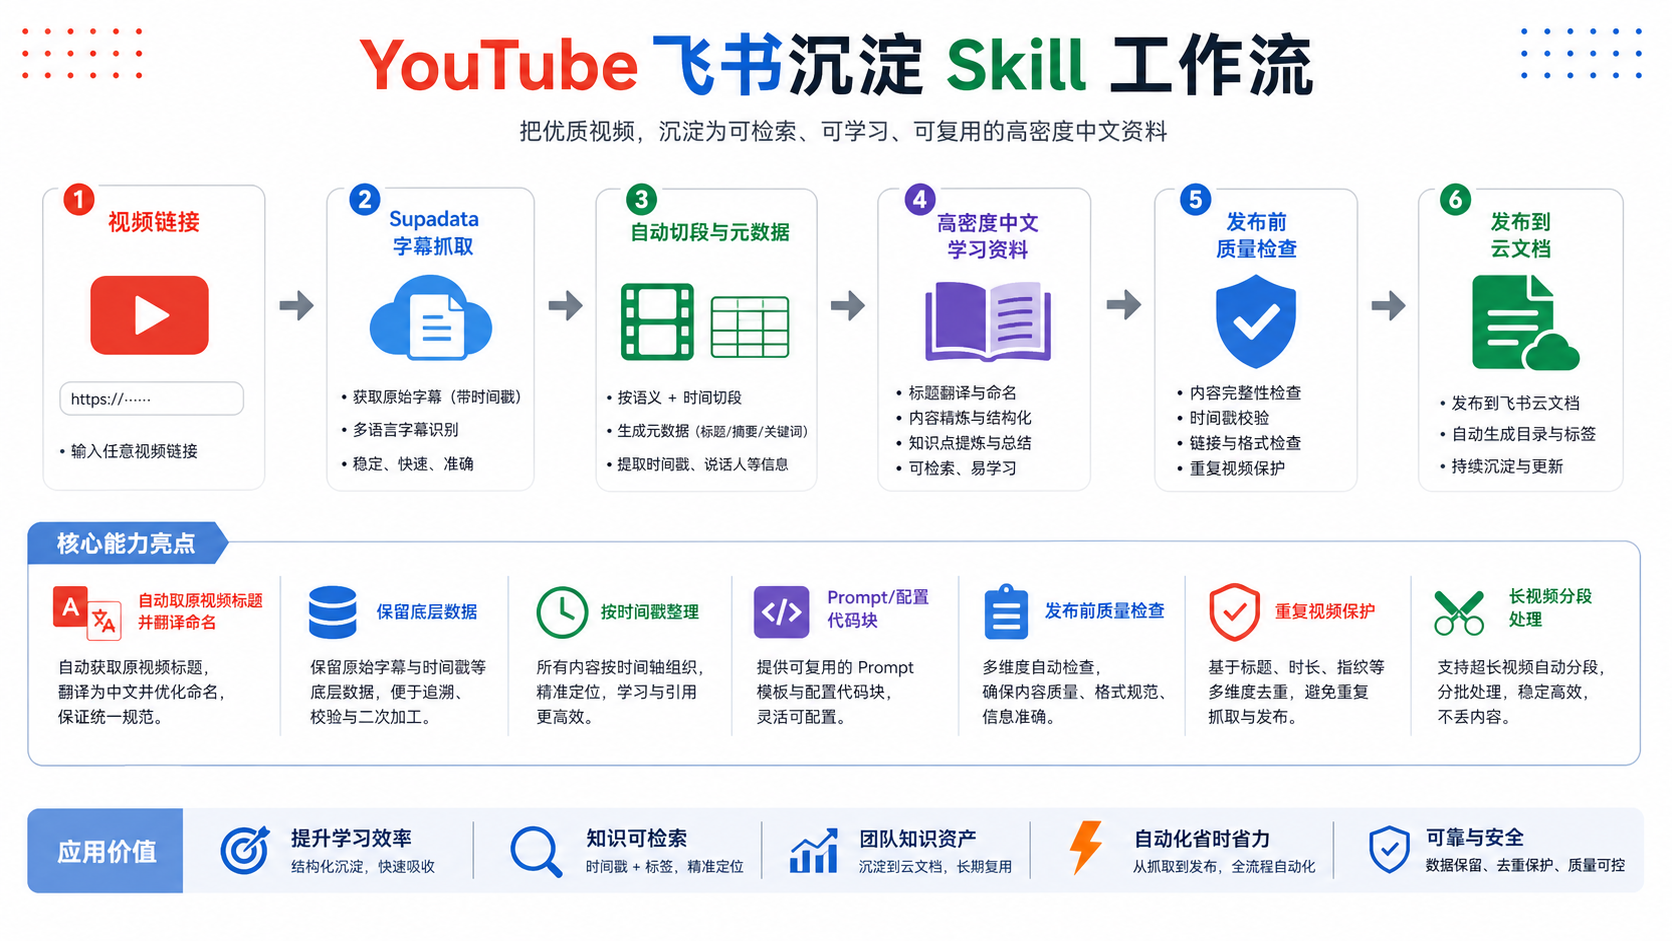
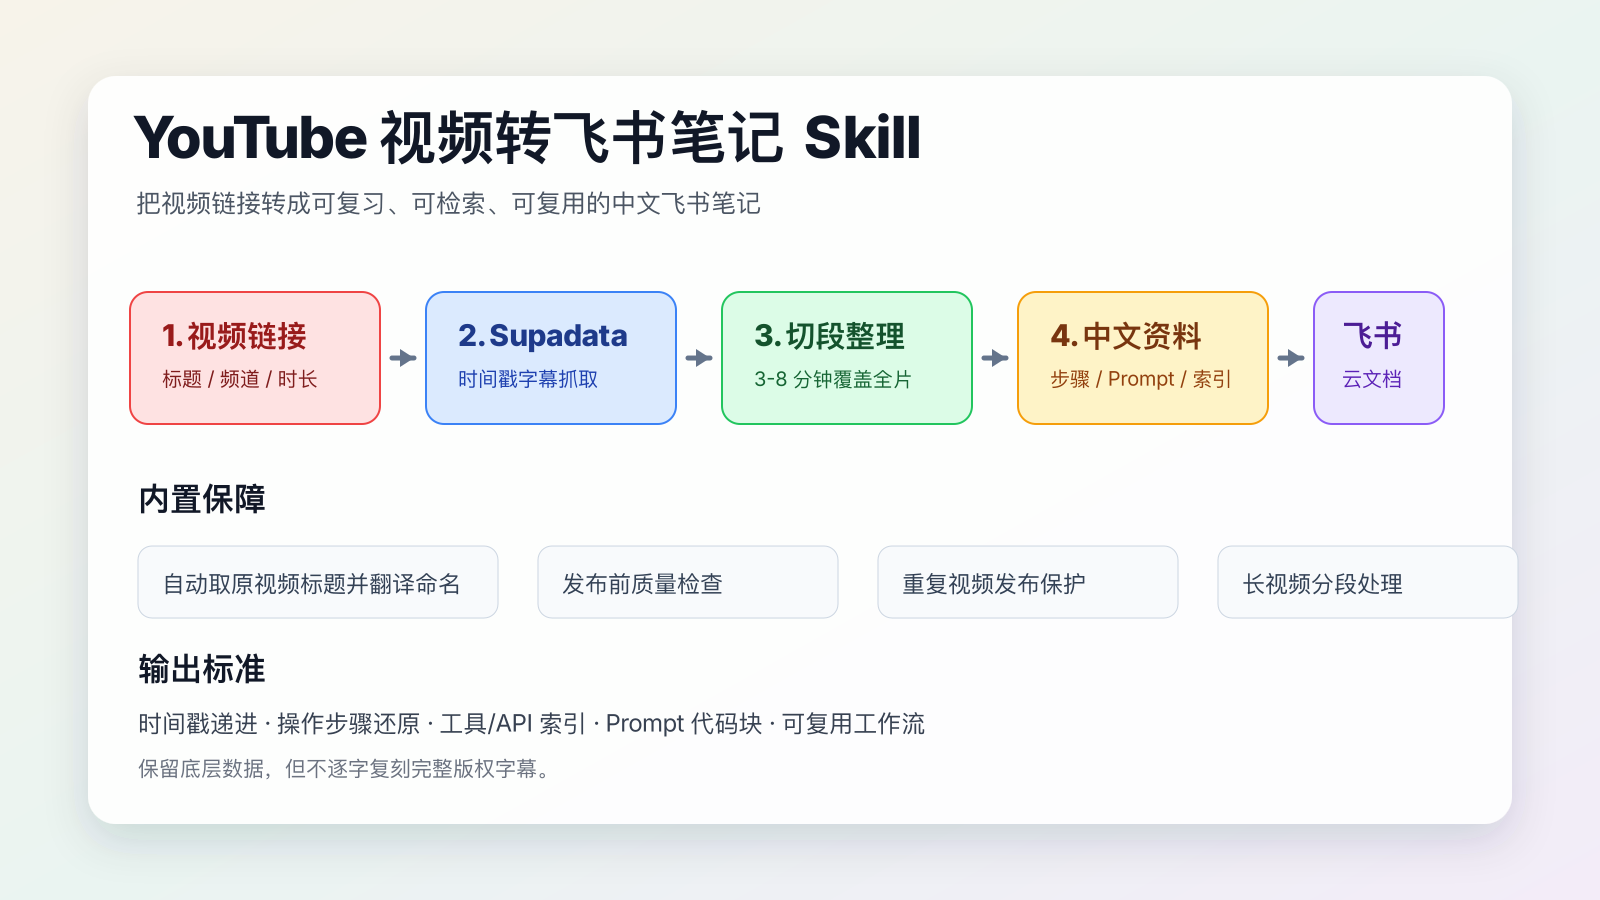
Rename skill to YouTube Feishu note

Changed region(s): [[0.0, 0.0311, 0.9688, 0.9644], [0.0625, 0.0622, 0.1562, 0.0933]]

diff --git a/scripts/publish_feishu_doc.py b/scripts/publish_feishu_doc.py
@@ -24,8 +24,8 @@ def load_json(path):
 
 def update_registry(workspace, record):
     paths = [
-        Path(workspace) / ".youtube-feishu-study-doc" / "processed_videos.json",
-        Path.home() / ".codex" / "skills" / "youtube-feishu-study-doc" / "data" / "processed_videos.json",
+        Path(workspace) / ".youtube-to-feishu-note" / "processed_videos.json",
+        Path.home() / ".codex" / "skills" / "youtube-to-feishu-note" / "data" / "processed_videos.json",
     ]
     for registry_path in paths:
         registry_path.parent.mkdir(parents=True, exist_ok=True)

diff --git a/scripts/check_processed_video.py b/scripts/check_processed_video.py
@@ -32,7 +32,9 @@ def load_json(path):
 
 def registry_paths(workspace):
     return [
+        Path(workspace) / ".youtube-to-feishu-note" / "processed_videos.json",
         Path(workspace) / ".youtube-feishu-study-doc" / "processed_videos.json",
+        Path.home() / ".codex" / "skills" / "youtube-to-feishu-note" / "data" / "processed_videos.json",
         Path.home() / ".codex" / "skills" / "youtube-feishu-study-doc" / "data" / "processed_videos.json",
     ]
 

diff --git a/scripts/fetch_supadata_transcript.py b/scripts/fetch_supadata_transcript.py
@@ -30,7 +30,7 @@ def main() -> int:
         f"https://api.supadata.ai/v1/transcript?{query}",
         headers={
             "x-api-key": api_key,
-            "user-agent": "Mozilla/5.0 youtube-feishu-study-doc/1.0",
+            "user-agent": "Mozilla/5.0 youtube-to-feishu-note/1.0",
             "accept": "application/json",
         },
     )

diff --git a/SKILL.md b/SKILL.md
@@ -1,9 +1,9 @@
 ---
-name: youtube-feishu-study-doc
-description: Create high-fidelity Chinese study documents from YouTube videos and save them to Feishu/Lark cloud docs. Use when the user asks to process, extract, transcribe, summarize, study, archive, or save a YouTube video to Feishu/Lark, especially with requirements like "拒绝高度概括", "保留底层数据", "按时间戳", "完整字幕/关键原文内容", "配置与工作流代码块", or "保存到飞书云文档".
+name: youtube-to-feishu-note
+description: Turn YouTube videos into high-fidelity Chinese Feishu/Lark notes. Use when the user asks to process, extract, transcribe, summarize, study, archive, or save a YouTube video to Feishu/Lark, especially with requirements like "拒绝高度概括", "保留底层数据", "按时间戳", "完整字幕/关键原文内容", "配置与工作流代码块", or "保存到飞书云文档".
 ---
 
-# YouTube Feishu Study Doc
+# YouTube 视频转飞书笔记
 
 ## Overview
 
@@ -62,19 +62,19 @@ Important boundary: do not publish a full verbatim transcript of copyrighted vid
 Fetch transcript:
 
 ```bash
-python3 /Users/oliverchow/.codex/skills/youtube-feishu-study-doc/scripts/get_youtube_metadata.py \
+python3 /Users/macstudio/.codex/skills/youtube-to-feishu-note/scripts/get_youtube_metadata.py \
   "https://www.youtube.com/watch?v=VIDEO_ID" \
   --out metadata.json
 
-python3 /Users/oliverchow/.codex/skills/youtube-feishu-study-doc/scripts/check_processed_video.py \
+python3 /Users/macstudio/.codex/skills/youtube-to-feishu-note/scripts/check_processed_video.py \
   "https://www.youtube.com/watch?v=VIDEO_ID" \
   --metadata metadata.json
 
-python3 /Users/oliverchow/.codex/skills/youtube-feishu-study-doc/scripts/fetch_supadata_transcript.py \
+python3 /Users/macstudio/.codex/skills/youtube-to-feishu-note/scripts/fetch_supadata_transcript.py \
   "https://www.youtube.com/watch?v=VIDEO_ID" \
   --out transcript.json
 
-python3 /Users/oliverchow/.codex/skills/youtube-feishu-study-doc/scripts/prepare_transcript_chunks.py \
+python3 /Users/macstudio/.codex/skills/youtube-to-feishu-note/scripts/prepare_transcript_chunks.py \
   transcript.json \
   --metadata metadata.json \
   --format markdown \
@@ -84,12 +84,12 @@ python3 /Users/oliverchow/.codex/skills/youtube-feishu-study-doc/scripts/prepare
 Publish Markdown to Feishu:
 
 ```bash
-python3 /Users/oliverchow/.codex/skills/youtube-feishu-study-doc/scripts/validate_study_doc.py \
+python3 /Users/macstudio/.codex/skills/youtube-to-feishu-note/scripts/validate_study_doc.py \
   "./video-study.md" \
   --source-url "https://www.youtube.com/watch?v=VIDEO_ID" \
   --metadata metadata.json
 
-python3 /Users/oliverchow/.codex/skills/youtube-feishu-study-doc/scripts/publish_feishu_doc.py \
+python3 /Users/macstudio/.codex/skills/youtube-to-feishu-note/scripts/publish_feishu_doc.py \
   "./video-study.md" \
   --title "中文视频标题" \
   --source-url "https://www.youtube.com/watch?v=VIDEO_ID" \

diff --git a/README.md b/README.md
@@ -1,8 +1,8 @@
-# YouTube 飞书沉淀 Skill
+# YouTube 视频转飞书笔记 Skill
 
-![YouTube 飞书沉淀 Skill](assets/skill-intro.png)
+<img src="https://raw.githubusercontent.com/zhouxuan3550/youtube-to-feishu-note/main/assets/skill-intro.png" alt="YouTube 视频转飞书笔记 Skill" width="100%">
 
-把 YouTube 视频处理成详尽中文资料，并保存到飞书云文档。这个 skill 适合把长视频、教程、产品演示、访谈、工作流讲解沉淀成可复习、可检索、可复用的个人知识文档。
+把 YouTube 视频处理成详尽中文笔记，并保存到飞书云文档。这个 skill 适合把长视频、教程、产品演示、访谈、工作流讲解沉淀成可复习、可检索、可复用的个人知识文档。
 
 ## 能做什么
 
@@ -31,7 +31,7 @@ YouTube 链接
 在 Codex 中直接引用这个 skill，并提供 YouTube 链接：
 
 ```text
-[$youtube-feishu-study-doc] 请处理这个视频，并保存到我的飞书云文档：
+[$youtube-to-feishu-note] 请处理这个视频，并保存到我的飞书云文档：
 https://www.youtube.com/watch?v=VIDEO_ID
 ```
 
@@ -101,4 +101,3 @@ python3 scripts/publish_feishu_doc.py \
 ## 输出原则
 
 这个 skill 的目标是“保留底层数据”，但不会逐字复刻完整版权字幕。它会用中文结构化还原视频内容，保留时间戳、操作步骤、演示例子、Prompt、配置方法和工作流逻辑。
-